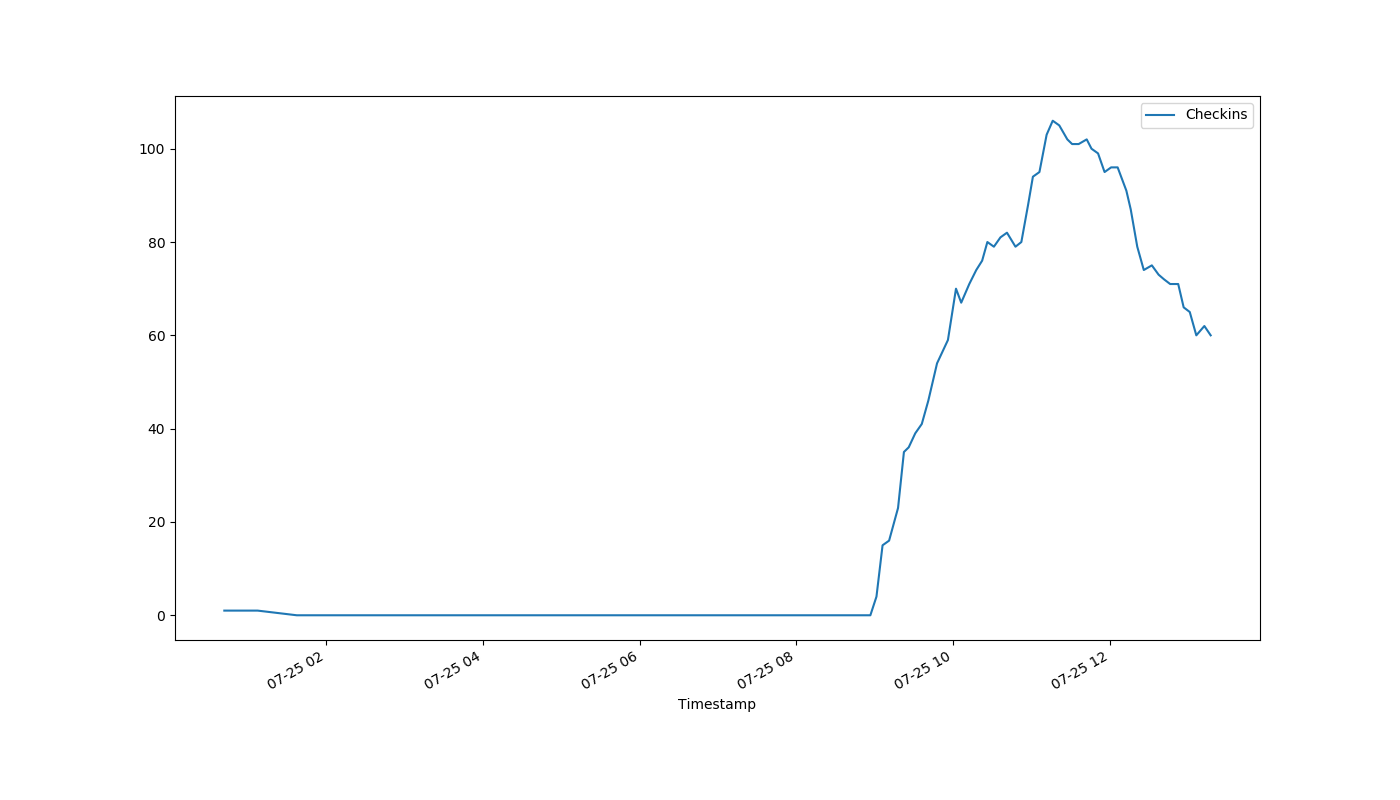
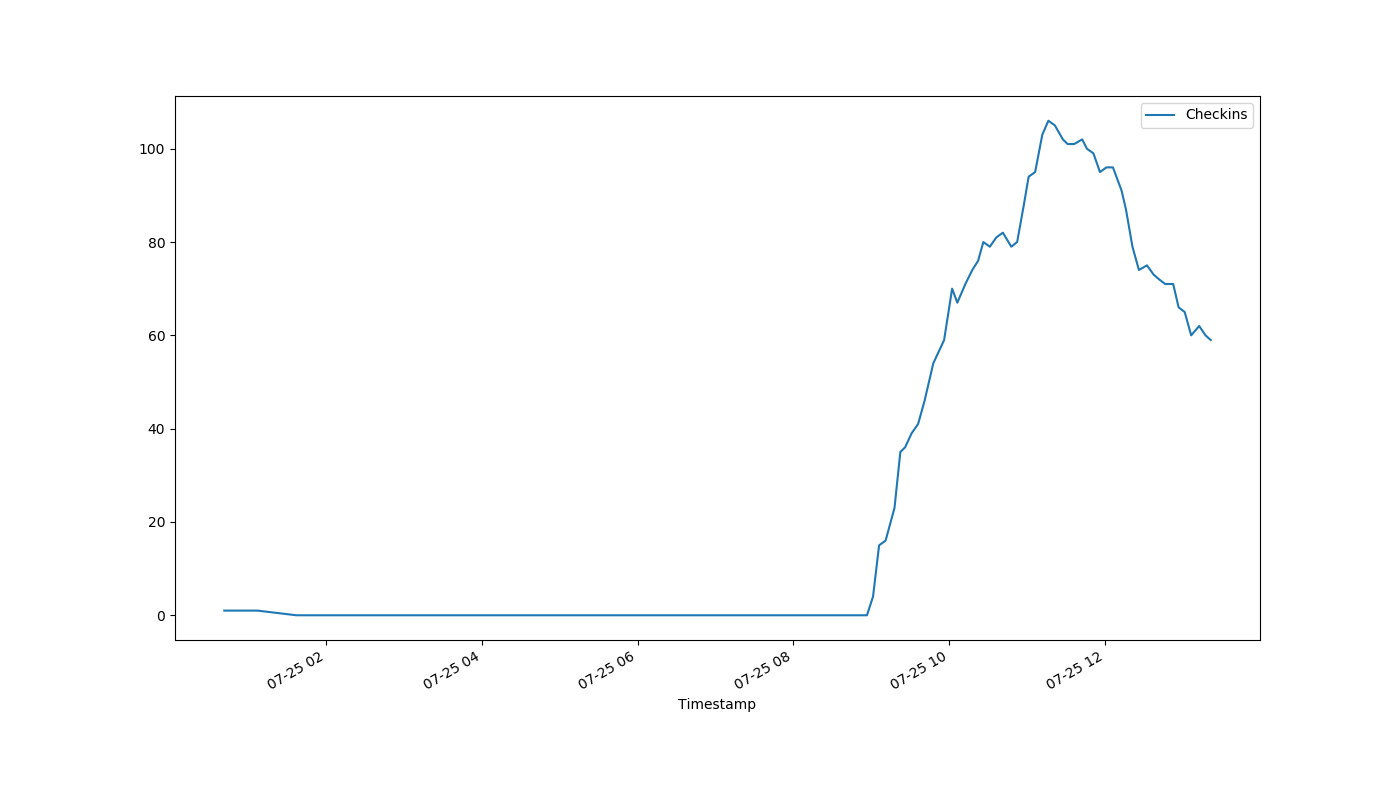
auto-Jul-25-13:22:58

diff --git a/index.html b/index.html
@@ -1,1 +1,1 @@
-<!DOCTYPE html><html><head><meta http-equiv="refresh" content="30"><link rel='stylesheet' href='holmcurrent.css'></head><body><p id='count'>60</p><div id='graph-wrap'><img id='graph' src='holmgraph-Jul-25.png'></div><p id='updated'>Last updated 13:18:02 / 13:17:17</p></body></html>
+<!DOCTYPE html><html><head><meta http-equiv="refresh" content="30"><link rel='stylesheet' href='holmcurrent.css'></head><body><p id='count'>59</p><div id='graph-wrap'><img id='graph' src='holmgraph-Jul-25.png'></div><p id='updated'>Last updated 13:22:02 / 13:21:17</p></body></html>
